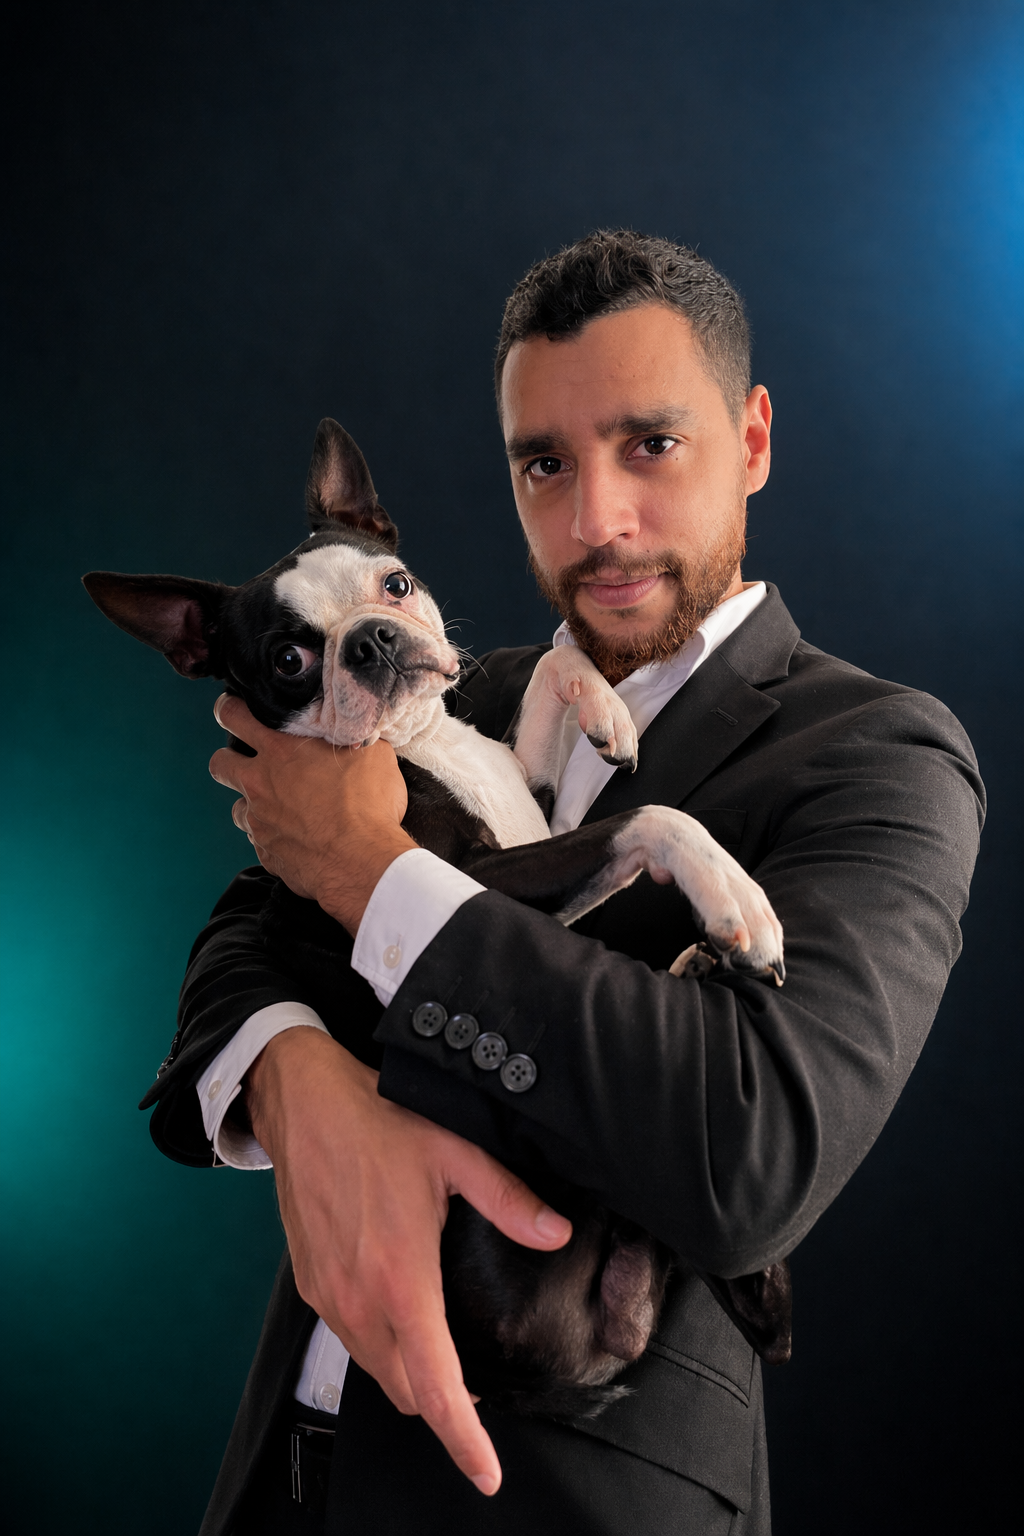
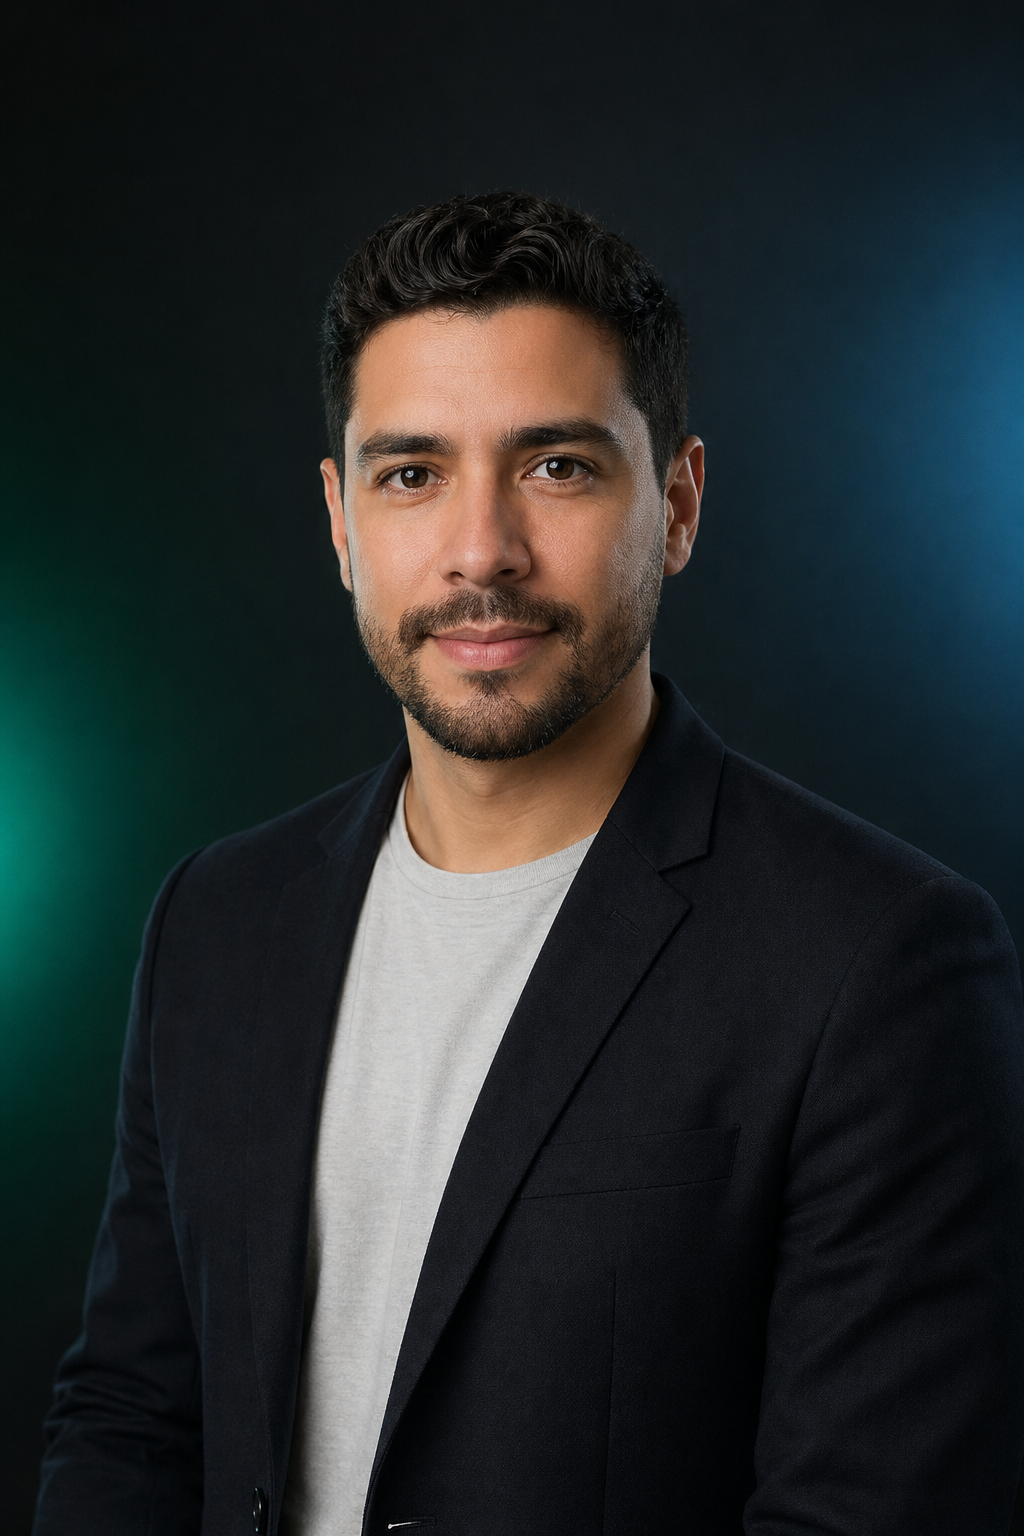
Add files via upload

diff --git a/styles.css b/styles.css
@@ -139,10 +139,10 @@ body[data-lang="en"] .toggle-track::after {
 .hero {
   position: relative;
   display: grid;
-  grid-template-columns: minmax(0, 1fr) minmax(280px, 380px);
+  grid-template-columns: minmax(0, 1fr) minmax(240px, 320px);
   align-items: end;
-  gap: clamp(28px, 6vw, 76px);
-  min-height: calc(88svh - 72px);
+  gap: clamp(24px, 5vw, 64px);
+  min-height: calc(82svh - 72px);
   padding: clamp(78px, 10vw, 126px) clamp(18px, 5vw, 72px) clamp(44px, 7vw, 72px);
   overflow: hidden;
   color: var(--white);
@@ -235,14 +235,15 @@ body[data-lang="en"] .toggle-track::after {
 
 .hero-aside {
   display: grid;
-  gap: 16px;
+  gap: 12px;
   align-self: center;
+  justify-items: end;
 }
 
 .portrait-card {
   position: relative;
-  width: min(100%, 360px);
-  max-height: 520px;
+  width: min(100%, 280px);
+  max-height: 350px;
   aspect-ratio: 4 / 5;
   margin: 0;
   overflow: hidden;
@@ -272,6 +273,7 @@ body[data-lang="en"] .toggle-track::after {
 .hero-signal {
   display: grid;
   gap: 1px;
+  width: min(100%, 320px);
   overflow: hidden;
   border: 1px solid rgba(255, 255, 255, 0.14);
   border-radius: var(--radius);
@@ -281,7 +283,7 @@ body[data-lang="en"] .toggle-track::after {
 }
 
 .hero-signal div {
-  padding: 20px;
+  padding: 16px;
   background: rgba(255, 255, 255, 0.055);
 }
 
@@ -289,7 +291,7 @@ body[data-lang="en"] .toggle-track::after {
   display: block;
   margin-bottom: 8px;
   color: rgba(255, 255, 255, 0.55);
-  font-size: 0.78rem;
+  font-size: 0.72rem;
   font-weight: 700;
   text-transform: uppercase;
 }
@@ -297,7 +299,7 @@ body[data-lang="en"] .toggle-track::after {
 .hero-signal strong {
   display: block;
   color: var(--white);
-  font-size: 1rem;
+  font-size: 0.94rem;
   line-height: 1.35;
 }
 
@@ -683,10 +685,21 @@ h2 {
     align-self: stretch;
   }
 
+  .hero-aside {
+    grid-template-columns: 180px minmax(0, 1fr);
+    align-items: stretch;
+    justify-items: stretch;
+    max-width: 620px;
+  }
+
   .portrait-card {
-    width: min(100%, 420px);
-    max-height: 520px;
+    width: 100%;
+    max-height: none;
     justify-self: start;
+  }
+
+  .hero-signal {
+    width: 100%;
   }
 
   .stats-strip,
@@ -725,17 +738,35 @@ h2 {
   }
 
   .hero {
-    padding: 58px 18px 40px;
+    padding: 42px 18px 24px;
   }
 
   .hero h1 {
-    font-size: clamp(3.1rem, 17vw, 4.7rem);
+    font-size: clamp(2.86rem, 15.6vw, 4.05rem);
   }
 
   .portrait-card {
-    width: min(100%, 320px);
-    max-height: 400px;
-    justify-self: center;
+    width: 104px;
+    align-self: start;
+    justify-self: start;
+  }
+
+  .hero-aside {
+    grid-template-columns: 104px minmax(0, 1fr);
+    gap: 10px;
+  }
+
+  .hero-signal div {
+    padding: 9px 10px;
+  }
+
+  .hero-signal span {
+    margin-bottom: 4px;
+    font-size: 0.58rem;
+  }
+
+  .hero-signal strong {
+    font-size: 0.75rem;
   }
 
   .hero-actions,

diff --git a/index.html b/index.html
@@ -53,7 +53,7 @@
 
       <div class="hero-aside">
         <figure class="portrait-card">
-          <img src="assets/profile-placeholder.png" alt="Professional portrait placeholder">
+          <img src="assets/profile-photo.webp" alt="Jose Jimenez professional portrait" width="720" height="1080">
         </figure>
 
         <aside class="hero-signal" aria-label="Professional snapshot">